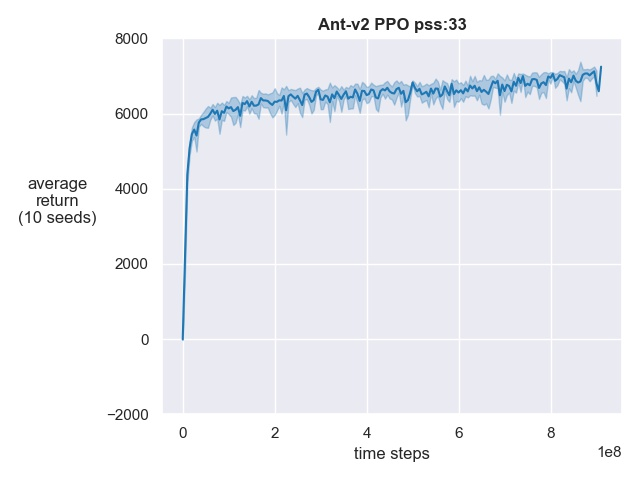
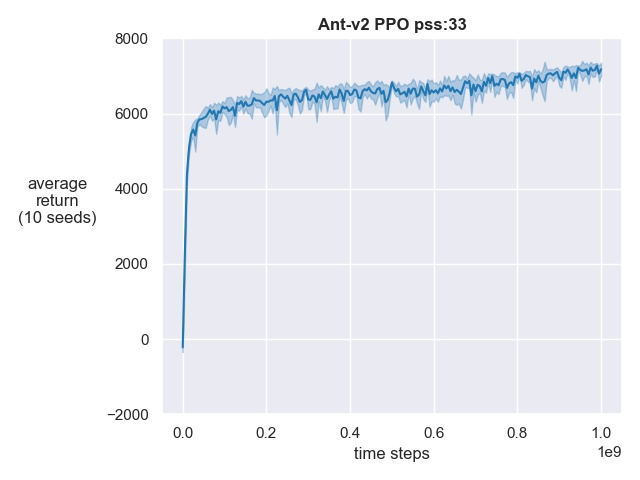
udpates to hps

diff --git a/plot/hps/hps.py b/plot/hps/hps.py
@@ -402,8 +402,9 @@ def ant():
     PPO
     """
 
-    ppo_data_dir = DATA_DIR + "/ant/hpsc/ppo"
+    ppo_data_dir = DATA_DIR + "/ant/hps/ppo"
     ppo_data_dirs = os.listdir(ppo_data_dir)
+    ppo_data_dirs.remove("resumed")
 
     ppo_results = []
 
@@ -437,6 +438,10 @@ def ant():
                 df_mean, df_sem = get_ppo_data(ppo_data_dir + "/" + dir_)
                 top_ppo_results_mean.append(df_mean)
                 top_ppo_results_sem.append(df_sem)
+            elif "_resumed" in dir_ and "pss:" + str(seed) == dir_[-(12 + len(str(seed))):-8]:
+                df_mean, df_sem = get_ppo_data(ppo_data_dir + "/" + dir_)
+                top_ppo_results_mean.append(df_mean)
+                top_ppo_results_sem.append(df_sem)
 
     plot_ant_top("ppo", top_hps_seeds, top_ppo_results_mean, top_ppo_results_sem)
 
@@ -444,7 +449,7 @@ def ant():
     SAC
     """
 
-    sac_data_dir = DATA_DIR + "/ant/hpsc/sac"
+    sac_data_dir = DATA_DIR + "/ant/hps/sac"
     sac_data_dirs = os.listdir(sac_data_dir)
 
     sac_results = []
@@ -502,7 +507,7 @@ def fetchreach():
     PPO
     """
 
-    ppo_data_dir = DATA_DIR + "/fetchreach/hpsc/ppo"
+    ppo_data_dir = DATA_DIR + "/fetchreach/hps/ppo"
     ppo_data_dirs = os.listdir(ppo_data_dir)
 
     ppo_results = []
@@ -544,7 +549,7 @@ def fetchreach():
     SAC
     """
 
-    sac_data_dir = DATA_DIR + "/fetchreach/hpsc/sac"
+    sac_data_dir = DATA_DIR + "/fetchreach/hps/sac"
     sac_data_dirs = os.listdir(sac_data_dir)
 
     sac_results = []
